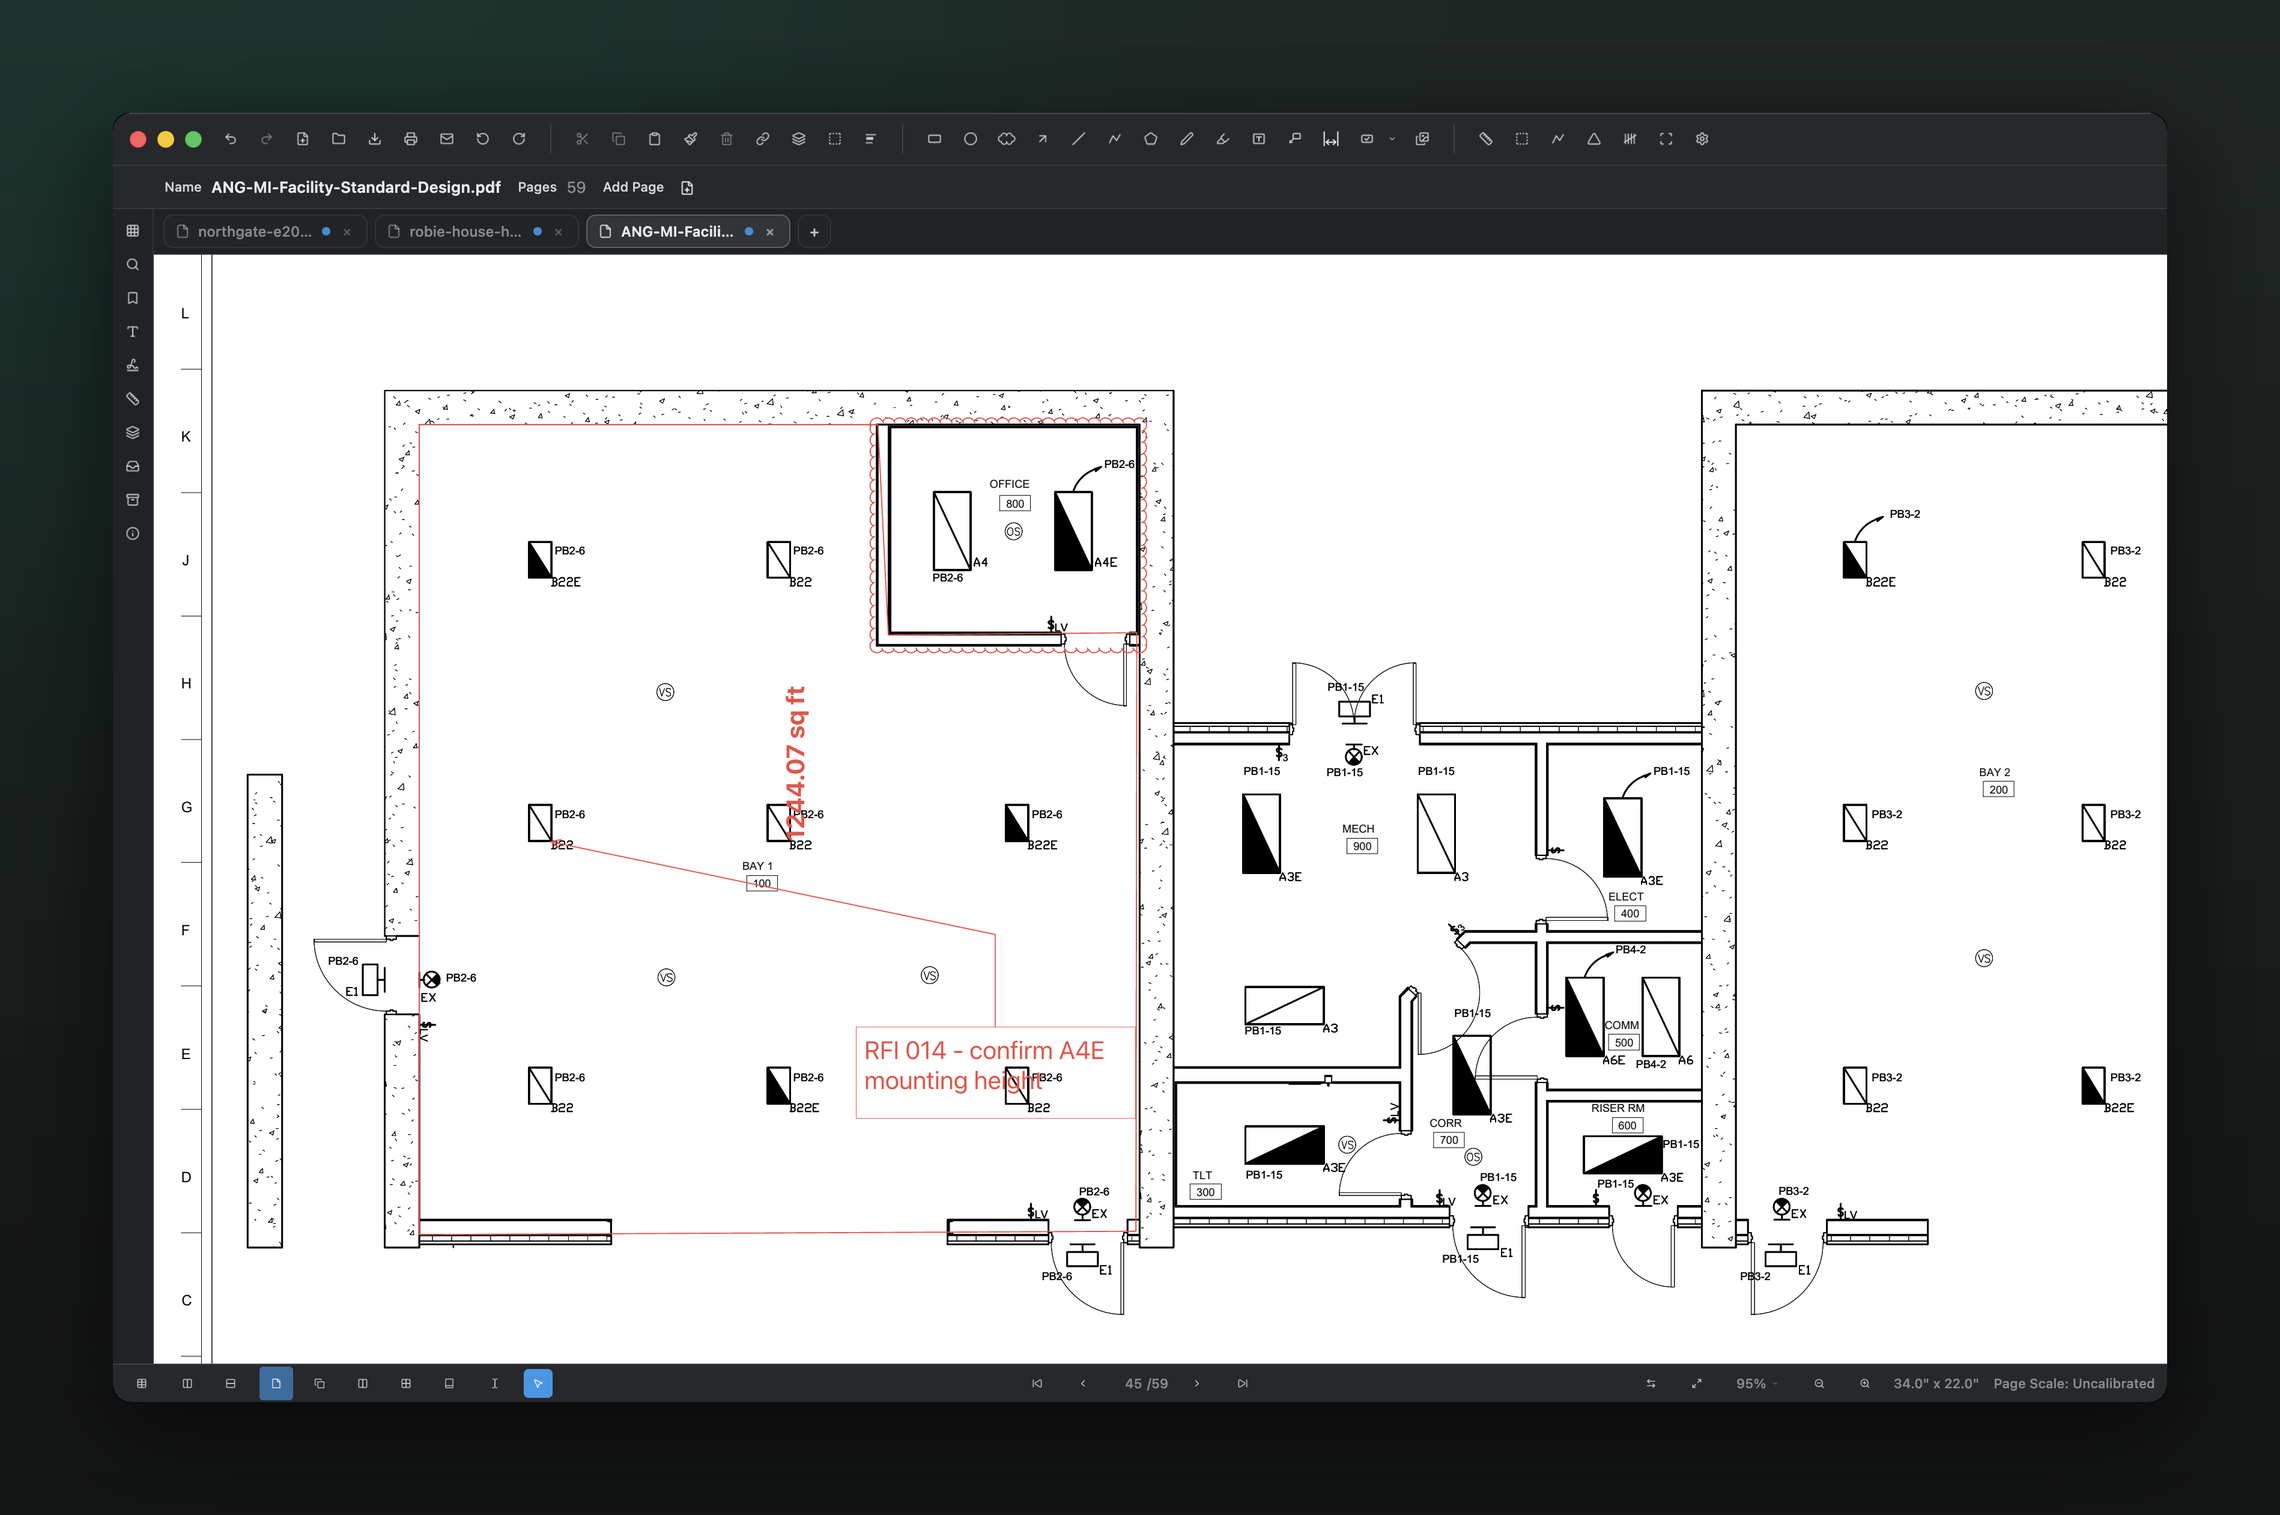
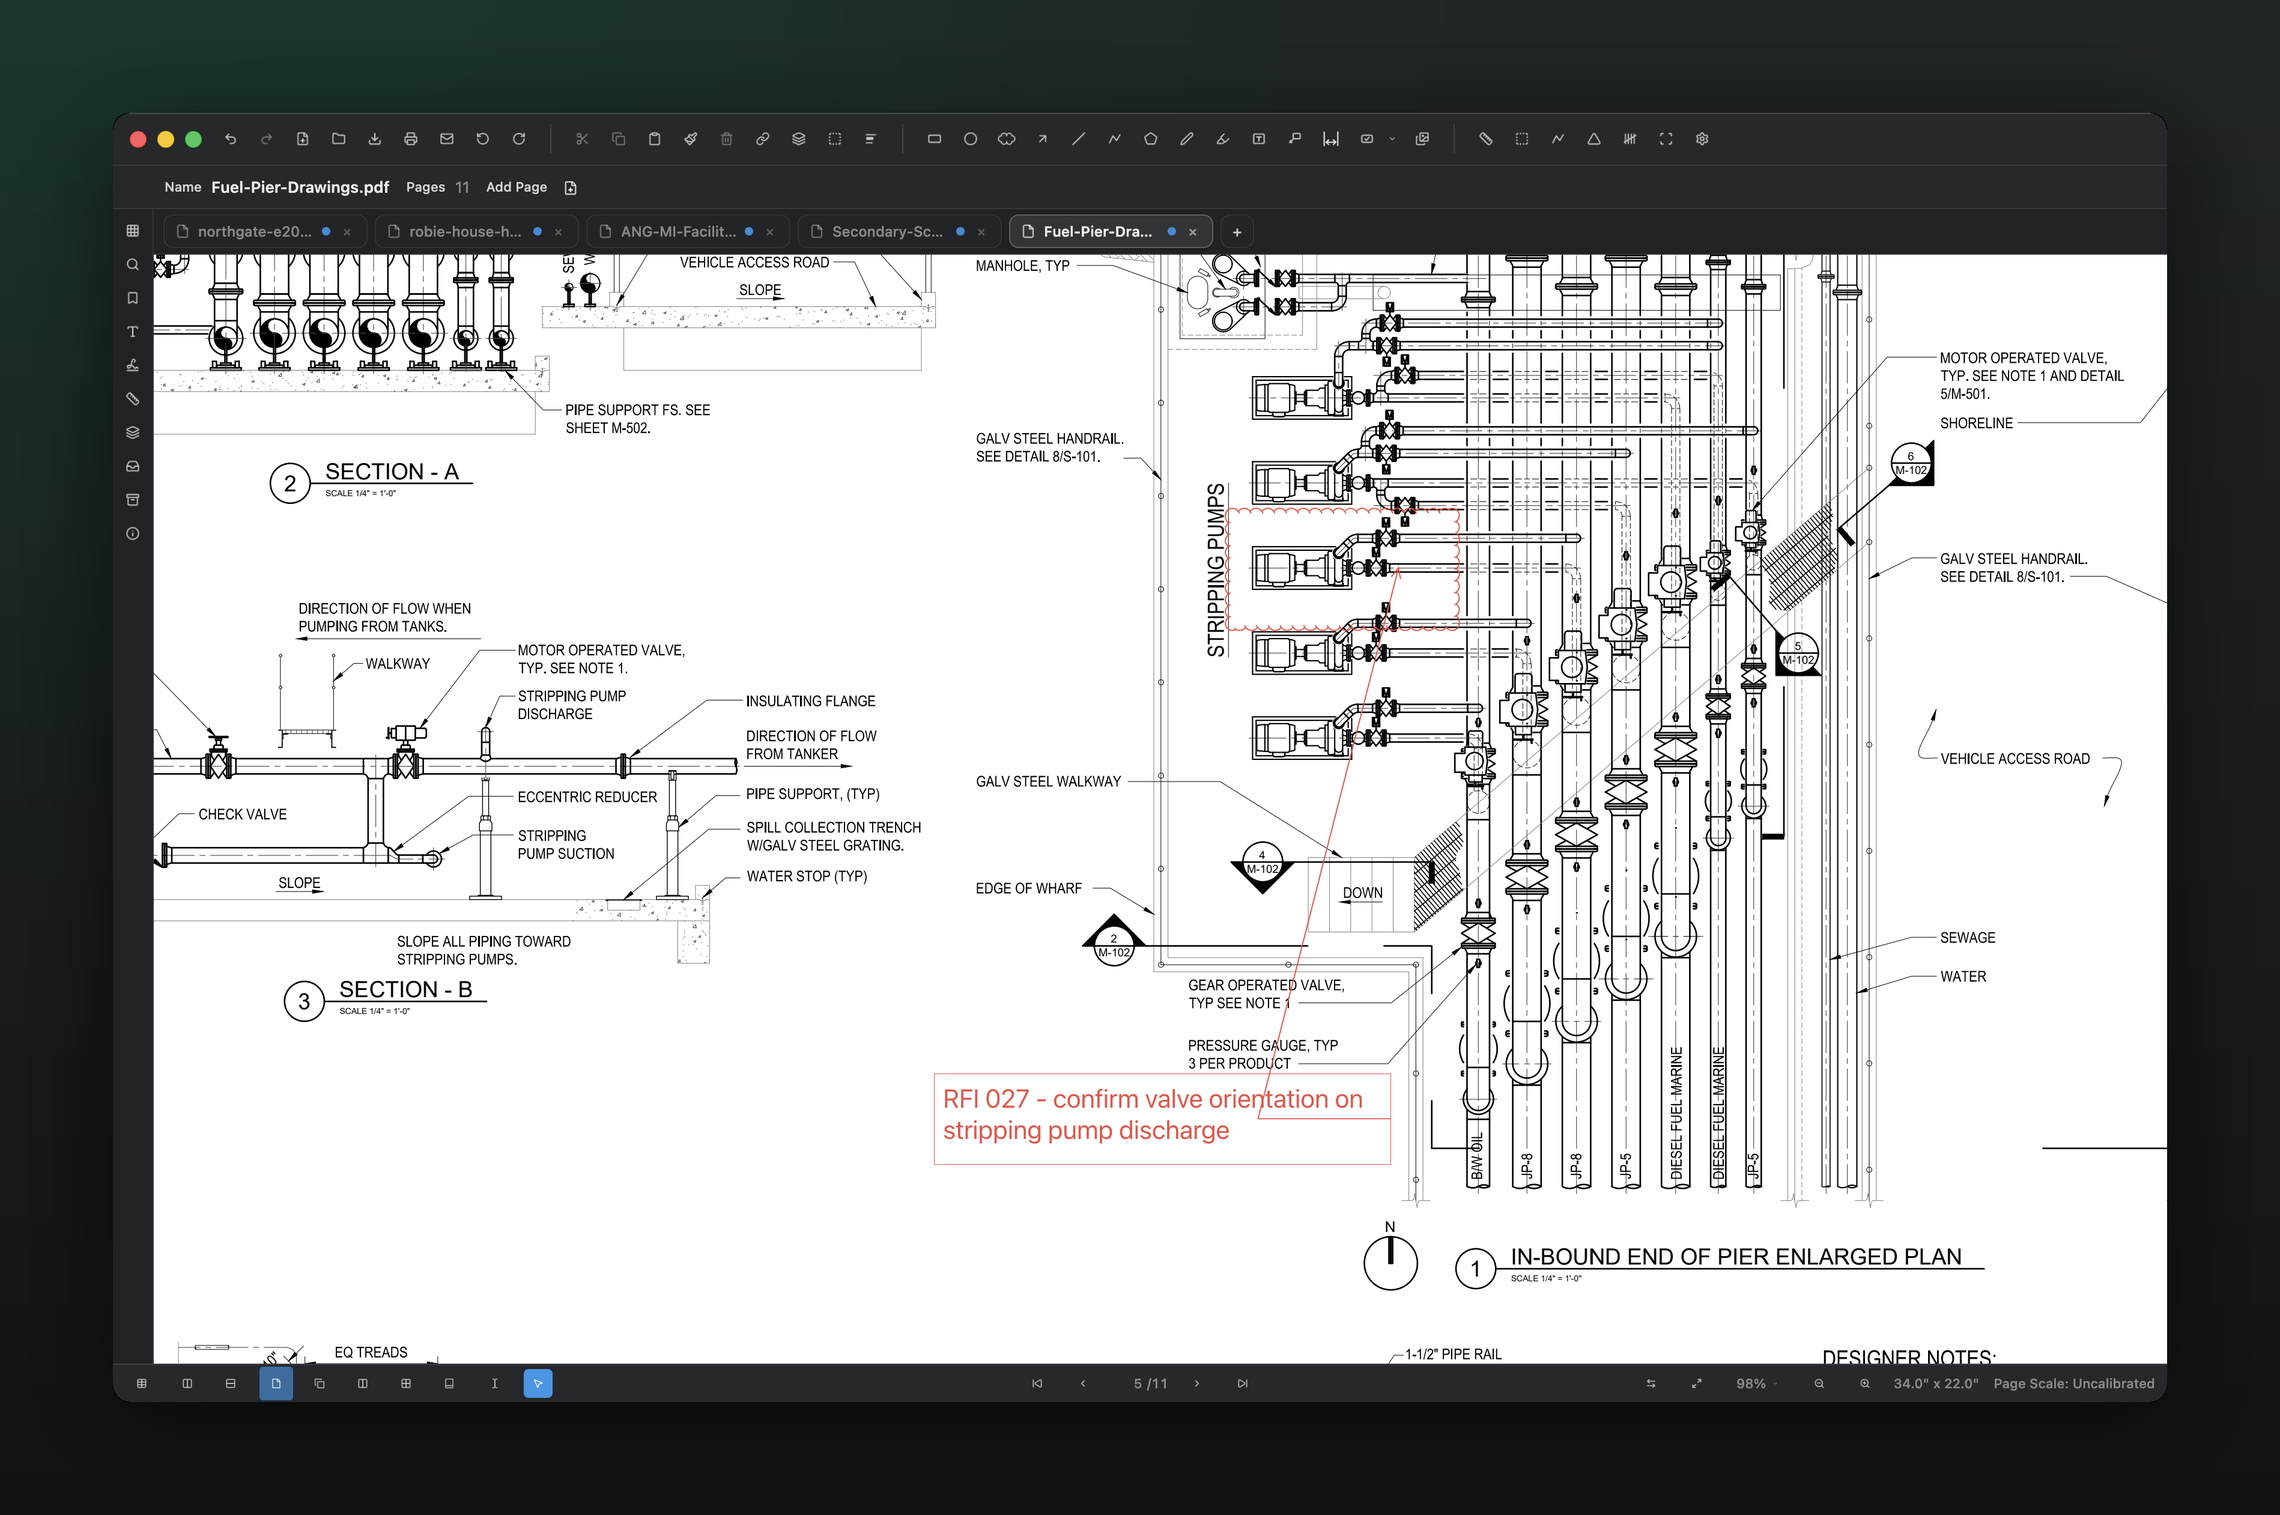
Showcase: one drawing set per screenshot, credited individually
Each of the three shots now works on a different published drawing set and
a different discipline, instead of three views of the same electrical sheet:

  count   electrical  - ANG M&I facility standard design, sheet E-102
  measure architectural - secondary school GA plan, level 00 (new)
  markup  mechanical  - fuel pier piping, sheet M-102 (new)

The measure shot is a 204.38 sq m area takeoff of a dining hall, calibrated
to the 1:200 scale printed on the sheet. The 14.17 PDF pt per metre figure
is derived from the A0 page geometry and was cross-checked against the
sheet's own 0-20 m graphic scale bar, which measures 100.09 mm on paper
against 100.00 nominal - agreement to 0.09%.

The markup shot clouds a stripping-pump bay and leaders an RFI callout back
to the pump discharge, at 22pt.

Licensing is why attribution moved from one section-level line to a per-shot
credit. The two US federal sets are public domain under 17 USC 105, but the
school plan is Crown copyright under the Open Government Licence v3.0, which
makes the attribution statement AND a link to the licence a condition of
use. That credit now travels with the image.

Framing keeps agency identification out of every shot: no NAVFAC seal or
title block, no UNCLASSIFIED banners, no departmental crest or drawing
originator code. The school file was renamed so the originator code does not
appear in the window title or tab either.

diff --git a/src/components/Home.js b/src/components/Home.js
@@ -22,24 +22,42 @@ import shotCountCommitted from '../assets/screenshots/shot-count-committed-web.p
 import shotMeasureTakeoff from '../assets/screenshots/shot-measure-takeoff-web.png';
 import shotMarkup from '../assets/screenshots/shot-markup-web.png';
 
-// Real captures of PolyPDF 1.1.3 in dark mode, working on sheet E-102 of a 2024 Air National Guard
-// Maintenance & Inspection facility standard design — a work of the US federal government, public
-// domain. Every caption states only what the capture actually shows.
+// Real captures of PolyPDF 1.1.3 in dark mode. Each shot works on a DIFFERENT published drawing
+// set and a different discipline — electrical, architectural, mechanical — so each carries its own
+// credit. Attribution belongs to the individual sheet, not to the section.
+//
+// Licence note: the two US federal sets are public domain under 17 U.S.C. 105. The UK school plan
+// is NOT public domain — it is Crown copyright released under the Open Government Licence v3.0,
+// which makes the attribution statement AND a link to the licence a condition of use, so that
+// credit must stay next to the image wherever it appears.
+const OGL_HREF = 'https://www.nationalarchives.gov.uk/doc/open-government-licence/version/3/';
+
 const screenshots = [
   {
     image: shotCountCommitted,
     title: 'Count the fixtures, keep the tally on the drawing',
-    caption: 'Seven light fixtures counted across the maintenance bay, each mark landing on the symbol it belongs to. The takeoff worksheet on the left holds one row per item and a running legend — 7 count beside 1,244.07 sq ft of area — and exports to CSV or PDF.'
+    caption: 'Seven light fixtures counted across the maintenance bay, each mark landing on the symbol it belongs to. The takeoff worksheet on the left holds one row per item and a running legend — 7 count beside 1,244.07 sq ft of area — and exports to CSV or PDF.',
+    source:
+      'Sheet E-102, Air National Guard Maintenance & Inspection Facility Standard Design, 23 October 2024 — a work of the US federal government, public domain.'
   },
   {
     image: shotMeasureTakeoff,
-    title: 'Calibrate once, measure in real units',
-    caption: 'The page is calibrated to the scale printed on the sheet itself, 1/4" = 1\'-0" — 18 PDF points per foot — so tracing the bay around its office returns 1,244.07 sq ft. The value stays on the drawing, not just in a side panel.'
+    title: 'Area takeoff on a 1:200 school plan',
+    caption: 'The dining hall of a ground-floor general arrangement plan, traced with the Area tool and reading 204.38 m² with the kitchen and library beside it. The page is calibrated to the 1:200 scale printed on the sheet — 14.17 PDF points per metre — so the figure comes from the drawing, not a guess.',
+    source: (
+      <>
+        Secondary school general arrangement plan, level 00, revision C01, 12 January 2026. Contains
+        public sector information licensed under the{' '}
+        <a href={OGL_HREF} target="_blank" rel="noopener noreferrer">Open Government Licence v3.0</a>.
+      </>
+    )
   },
   {
     image: shotMarkup,
-    title: 'Mark up review comments the way a drawing reads',
-    caption: 'A revision cloud around the office and a leader callout — "RFI 014 – confirm A4E mounting height" — set straight onto the sheet at a size that still reads in a printed set.'
+    title: 'Cloud and callout on a piping plan',
+    caption: 'A revision cloud around one stripping-pump bay of a marine fuel pier enlarged plan, with an RFI callout leadering back to the pump discharge it questions. Set at 22pt so the note still reads once the sheet is printed.',
+    source:
+      'Sheet M-102, Fuel Pier drawings 10009724–10009734, US Department of Defense, November 2020 — a work of the US federal government, public domain.'
   }
 ];
 
@@ -292,7 +310,7 @@ const Home = () => {
             viewport={{ once: true }}
           >
             <h2>See it on a real sheet</h2>
-            <p>An electrical lighting plan from a 2024 federal facility drawing set — captured from the shipping app, not mocked up. <span className="showcase-source">Sheet E-102, Air National Guard Maintenance &amp; Inspection Facility Standard Design, 23 October 2024 — a work of the US federal government, public domain.</span></p>
+            <p>Three drawing sets, three disciplines — electrical, architectural, mechanical — captured from the shipping app rather than mocked up. Each sheet is a published drawing credited under its own shot; crediting a source does not mean it endorses PolyPDF.</p>
           </motion.div>
 
           {/* Lead shot gets the full-width stage; the rest alternate text/image so the section
@@ -310,6 +328,7 @@ const Home = () => {
             <figcaption>
               <h3>{screenshots[0].title}</h3>
               <p>{screenshots[0].caption}</p>
+              <p className="shot-source">{screenshots[0].source}</p>
             </figcaption>
           </motion.figure>
 
@@ -327,6 +346,7 @@ const Home = () => {
                   <span className="showcase-index">0{index + 2}</span>
                   <h3>{shot.title}</h3>
                   <p>{shot.caption}</p>
+                  <p className="shot-source">{shot.source}</p>
                 </figcaption>
                 <motion.div
                   className="shot-plate"

diff --git a/src/App.css b/src/App.css
@@ -1375,6 +1375,30 @@ body {
   color: var(--gray-500);
 }
 
+/* Each shot now sits on a different drawing set, so the public-domain credit belongs to the
+   individual screenshot rather than to the section as a whole. Kept deliberately quiet — it is
+   attribution, not a selling point. */
+.shot-source {
+  margin-top: 10px;
+  font-size: 0.78rem;
+  line-height: 1.45;
+  color: var(--gray-500);
+  text-wrap: pretty;
+}
+
+/* The Open Government Licence credit has to carry a working link to the licence, so the anchor
+   stays legible without turning the credit into a call to action. */
+.shot-source a {
+  color: inherit;
+  text-decoration: underline;
+  text-underline-offset: 2px;
+}
+
+.shot-source a:hover,
+.shot-source a:focus-visible {
+  color: var(--gray-700);
+}
+
 /* The beautified captures already carry the window chrome, rounded corners, shadow and gradient
    stage (baked in by scripts/beautify.py at 2x), so the page must NOT re-frame them — it just
    places the plate and lets it breathe. */
